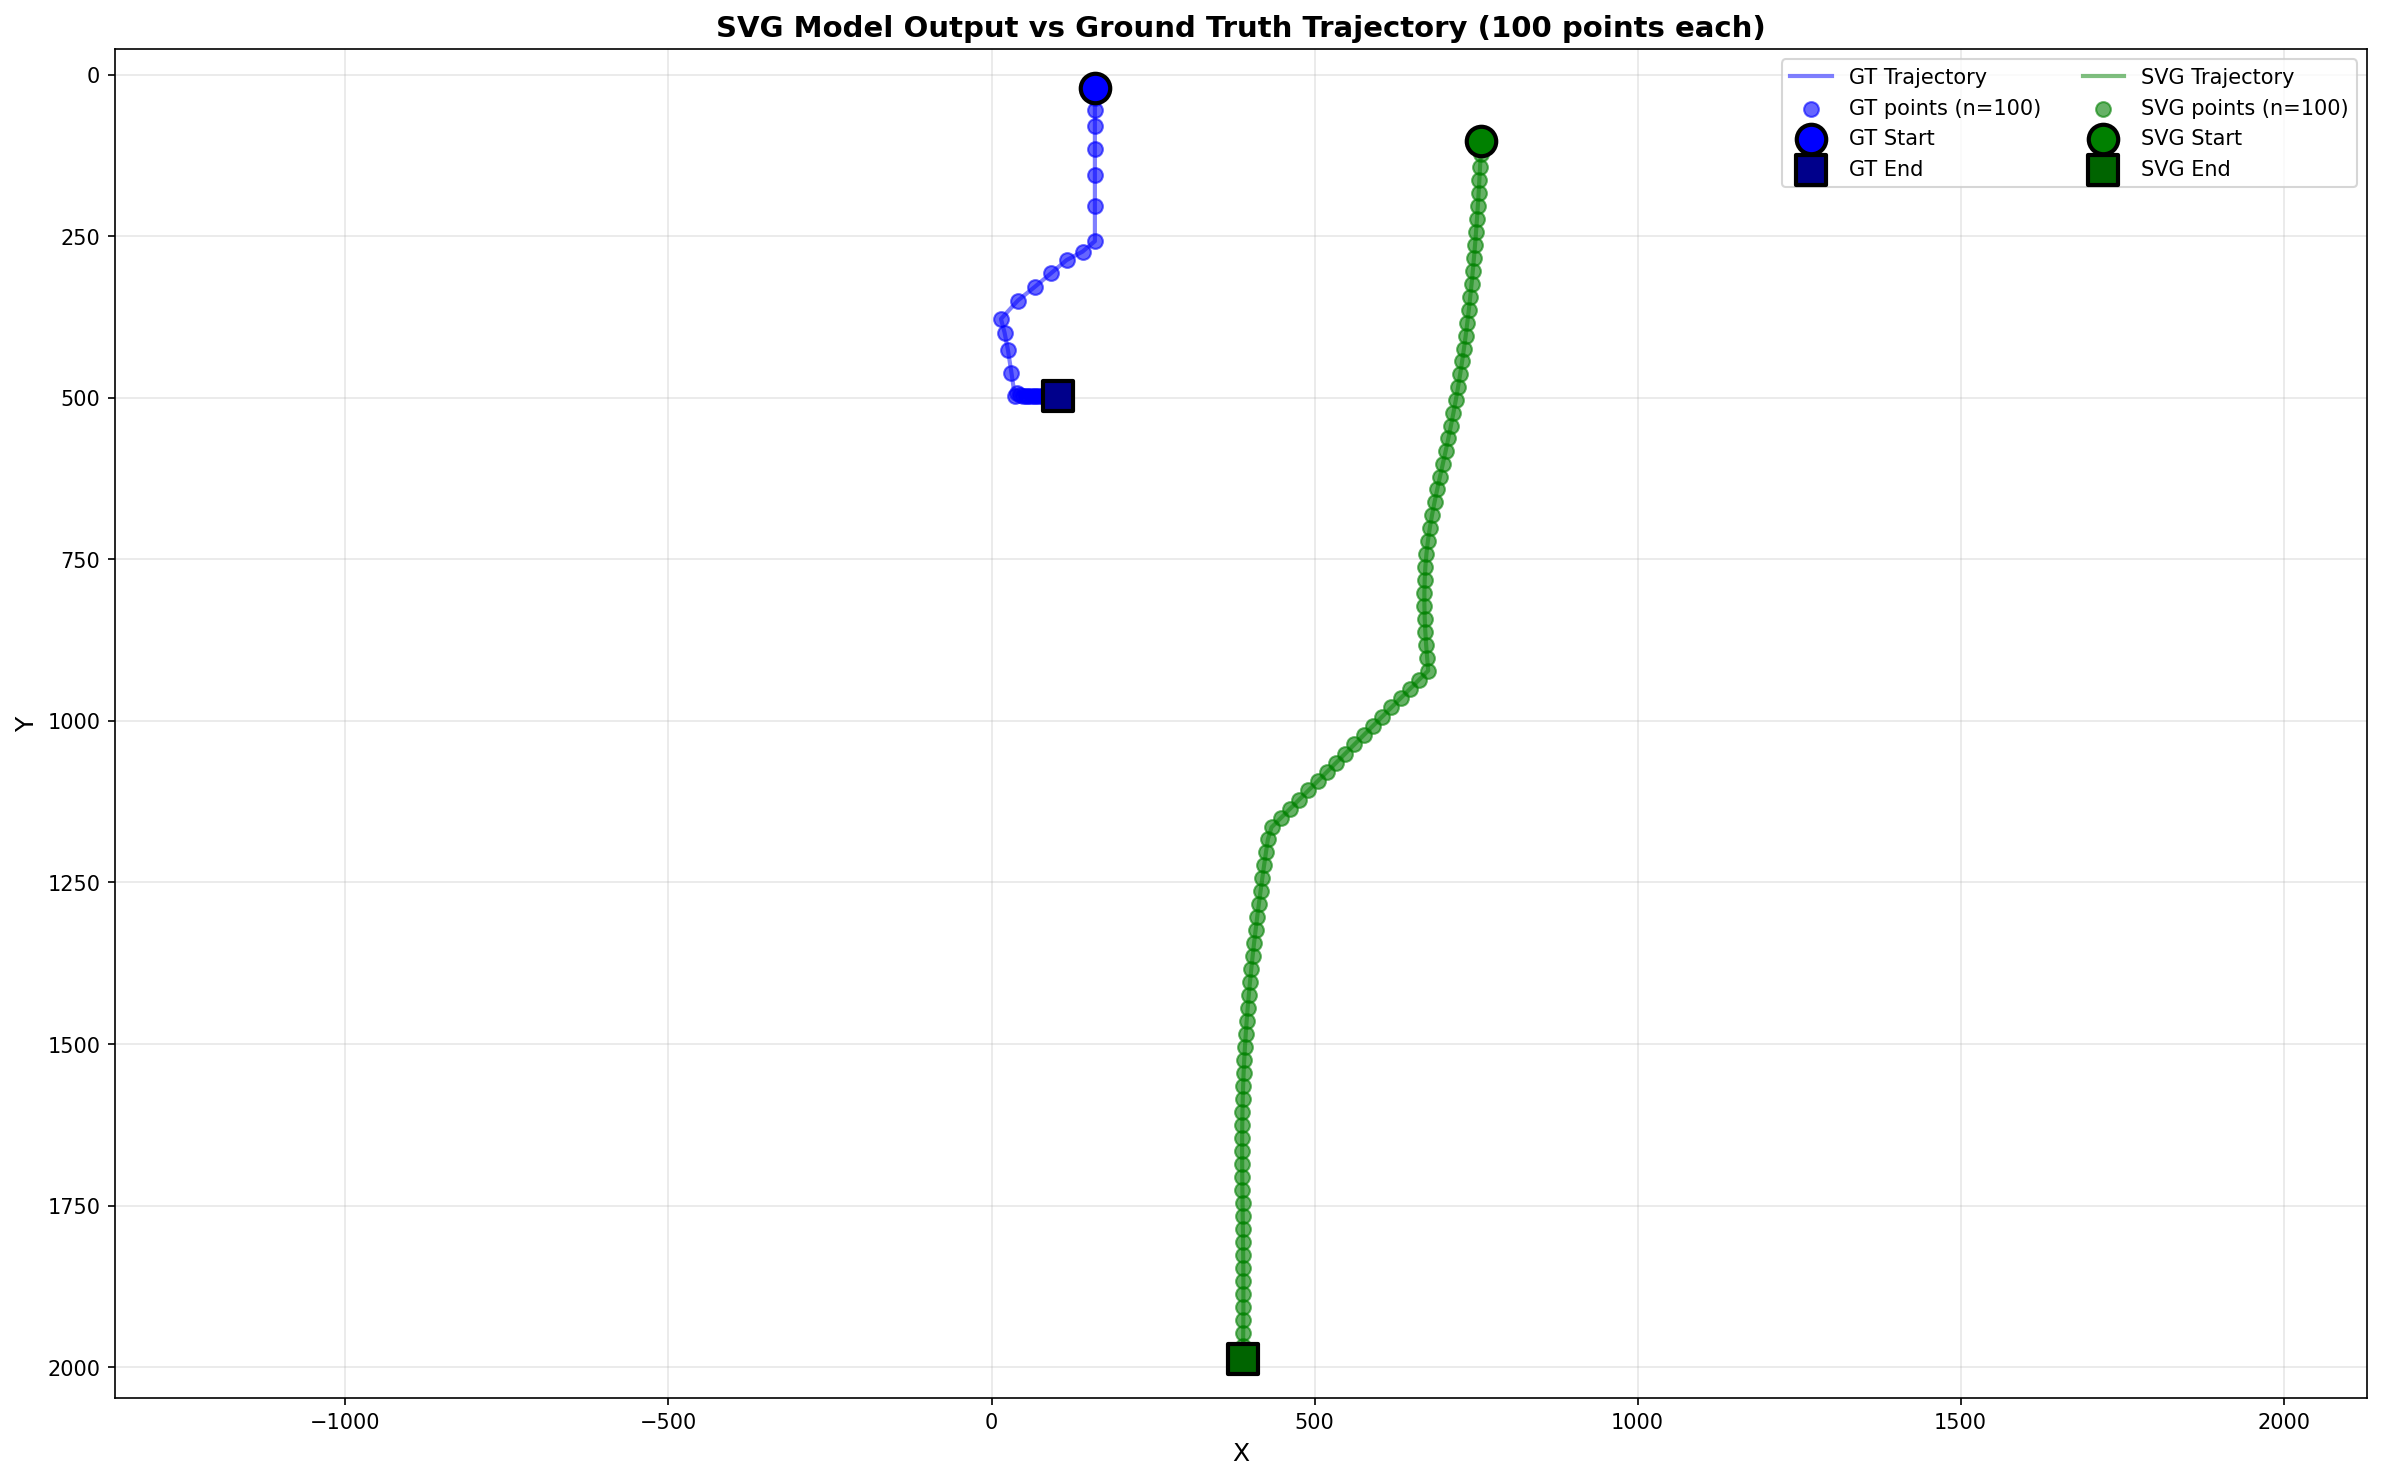
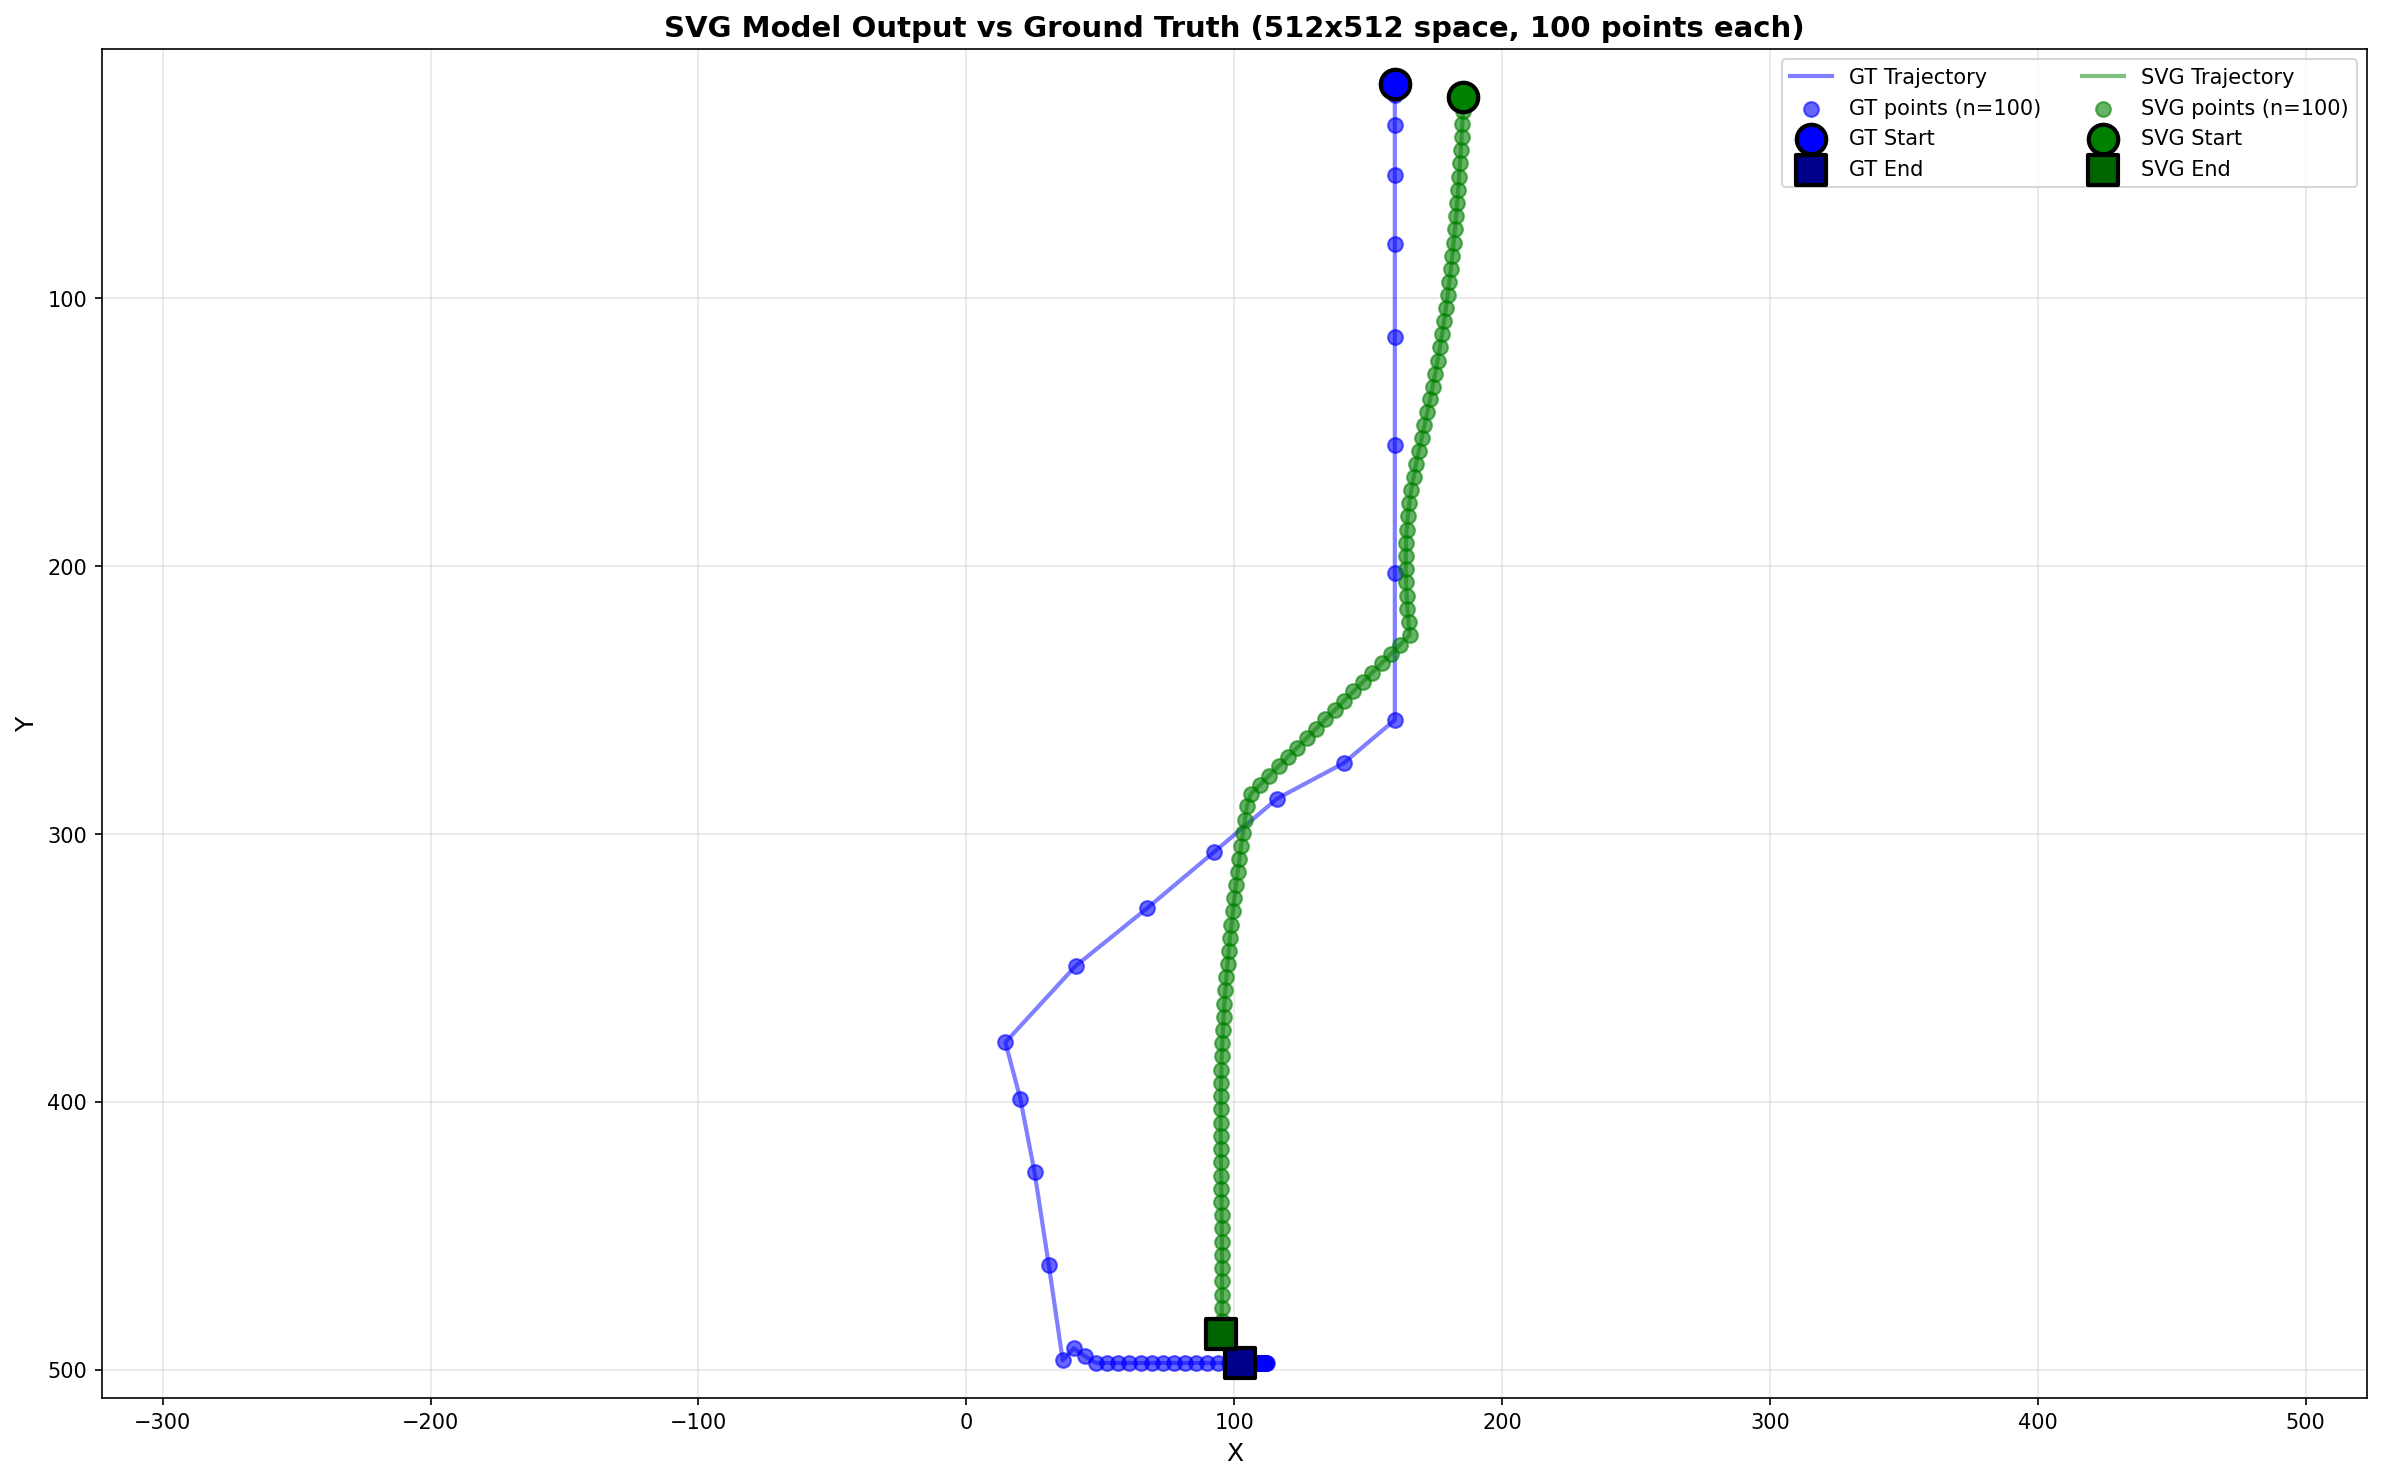
scaled to same space

diff --git a/analysis/line_visualizations/compare_lines.py b/analysis/line_visualizations/compare_lines.py
@@ -5,37 +5,50 @@ import json
 import matplotlib
 matplotlib.use('Agg')  # Use non-interactive backend
 import matplotlib.pyplot as plt
-def extract_points_from_svg(svg_path, n_points=500):
+def extract_points_from_svg(svg_path, n_points=500, target_size=512):
     """
     Extract n_points uniformly sampled along the entire SVG path.
-    
+
+    Scales coordinates from SVG canvas space to target_size x target_size space
+    to match ground truth coordinate system.
+
     Parameters:
     -----------
     svg_path : str
         Path to the SVG file
     n_points : int
         Total number of points to sample uniformly along entire trajectory
-    
+    target_size : int
+        Target canvas size (e.g., 512 for 512x512 ground truth space)
+
     Returns:
     --------
     np.ndarray
-        Array of shape (n_points, 2) containing [x, y] coordinates
+        Array of shape (n_points, 2) containing [x, y] coordinates scaled to target space
     """
     import xml.etree.ElementTree as ET
     from svgpathtools import parse_path, Path
     import numpy as np
-    
+
     # Parse the SVG file
     tree = ET.parse(svg_path)
     root = tree.getroot()
-    
+
+    # Get SVG canvas dimensions for scaling
+    svg_width = float(root.get('width', 2091))
+    svg_height = float(root.get('height', 2091))
+
+    # Calculate scale factors to convert to target space (e.g., 512x512)
+    scale_x = target_size / svg_width
+    scale_y = target_size / svg_height
+
     # Handle XML namespaces
     namespaces = {'svg': 'http://www.w3.org/2000/svg'}
     paths = root.findall('.//path') + root.findall('.//svg:path', namespaces)
-    
+
     if not paths:
         raise ValueError("No path elements found in SVG")
-    
+
     # Parse and concatenate all paths into one continuous path
     all_segments = []
     for path_elem in paths:
@@ -43,29 +56,33 @@ def extract_points_from_svg(svg_path, n_points=500):
         if d:
             path = parse_path(d)
             all_segments.extend(path)  # Add all segments from this path
-    
+
     if not all_segments:
         raise ValueError("No valid path data found")
-    
+
     # Create one continuous path from all segments
     continuous_path = Path(*all_segments)
-    
+
     # Get total length
     total_length = continuous_path.length()
-    
+
     # Sample uniformly by arc length
     points = []
     for i in range(n_points):
         # Distance along the path
         distance = (i / (n_points - 1)) * total_length if n_points > 1 else 0
-        
+
         # Convert distance to parameter t
         t = continuous_path.ilength(distance)
-        
+
         # Get point at parameter t
         pt = continuous_path.point(t)
-        points.append([pt.real, pt.imag])
-    
+
+        # Scale to target coordinate space
+        scaled_x = pt.real * scale_x
+        scaled_y = pt.imag * scale_y
+        points.append([scaled_x, scaled_y])
+
     return np.array(points)
 
 def extract_points_from_gt_json(json_path, n_points=100, ball_body_index="10"):
@@ -212,17 +229,21 @@ if __name__ == "__main__":
     svg_file = "/Users/log/Github/sketchvlm/results/mix_eval/ball_paths/gpt5/gpt5_low_ball_paths/item_00000.svg"
     gt_json_file = "/Users/log/Github/sketchvlm/datasets/large_run_split/run_001_1/random_scene_metadata.json"
 
-    # Extract 100 points from SVG
-    svg_points = extract_points_from_svg(svg_file, n_points=100)
-    print(f"SVG: Extracted {len(svg_points)} points")
+    # Extract 100 points from SVG (scaled to 512x512)
+    svg_points = extract_points_from_svg(svg_file, n_points=100, target_size=512)
+    print(f"SVG: Extracted {len(svg_points)} points (scaled to 512x512)")
     print(f"  First point: {svg_points[0]}")
     print(f"  Last point: {svg_points[-1]}")
+    print(f"  X range: [{svg_points[:, 0].min():.2f}, {svg_points[:, 0].max():.2f}]")
+    print(f"  Y range: [{svg_points[:, 1].min():.2f}, {svg_points[:, 1].max():.2f}]")
 
     # Extract 100 points from ground truth JSON
     gt_points = extract_points_from_gt_json(gt_json_file, n_points=100)
-    print(f"\nGround Truth: Extracted {len(gt_points)} points")
+    print(f"\nGround Truth: Extracted {len(gt_points)} points (512x512 space)")
     print(f"  First point: {gt_points[0]}")
     print(f"  Last point: {gt_points[-1]}")
+    print(f"  X range: [{gt_points[:, 0].min():.2f}, {gt_points[:, 0].max():.2f}]")
+    print(f"  Y range: [{gt_points[:, 1].min():.2f}, {gt_points[:, 1].max():.2f}]")
 
     # Verify uniform spacing for SVG
     svg_distances = np.linalg.norm(np.diff(svg_points, axis=0), axis=1)
@@ -247,5 +268,5 @@ if __name__ == "__main__":
     script_dir = os.path.dirname(os.path.abspath(__file__))
     save_path = os.path.join(script_dir, "trajectory_comparison.png")
     visualize_comparison(svg_points, gt_points,
-                        title="SVG Model Output vs Ground Truth Trajectory (100 points each)",
+                        title="SVG Model Output vs Ground Truth (512x512 space, 100 points each)",
                         save_path=save_path)
